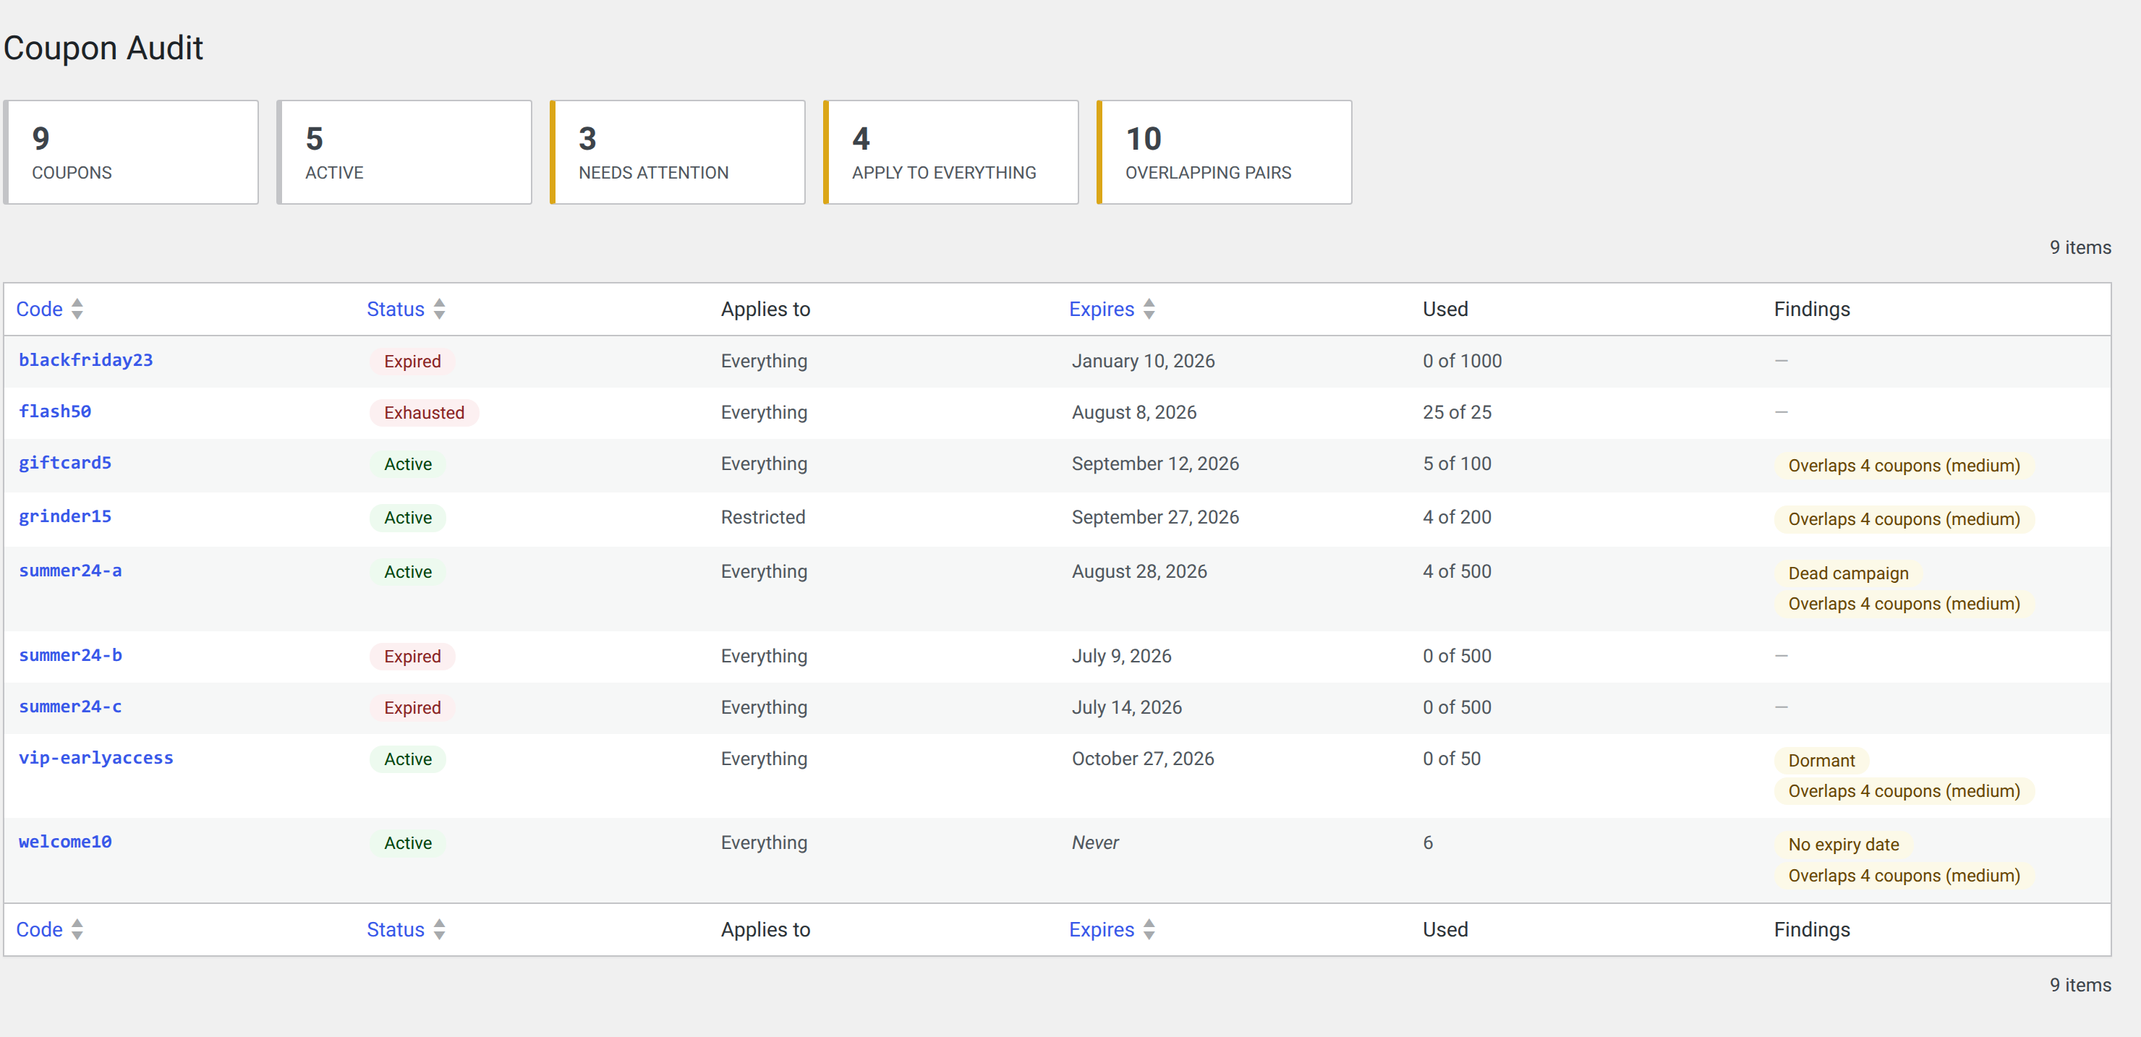
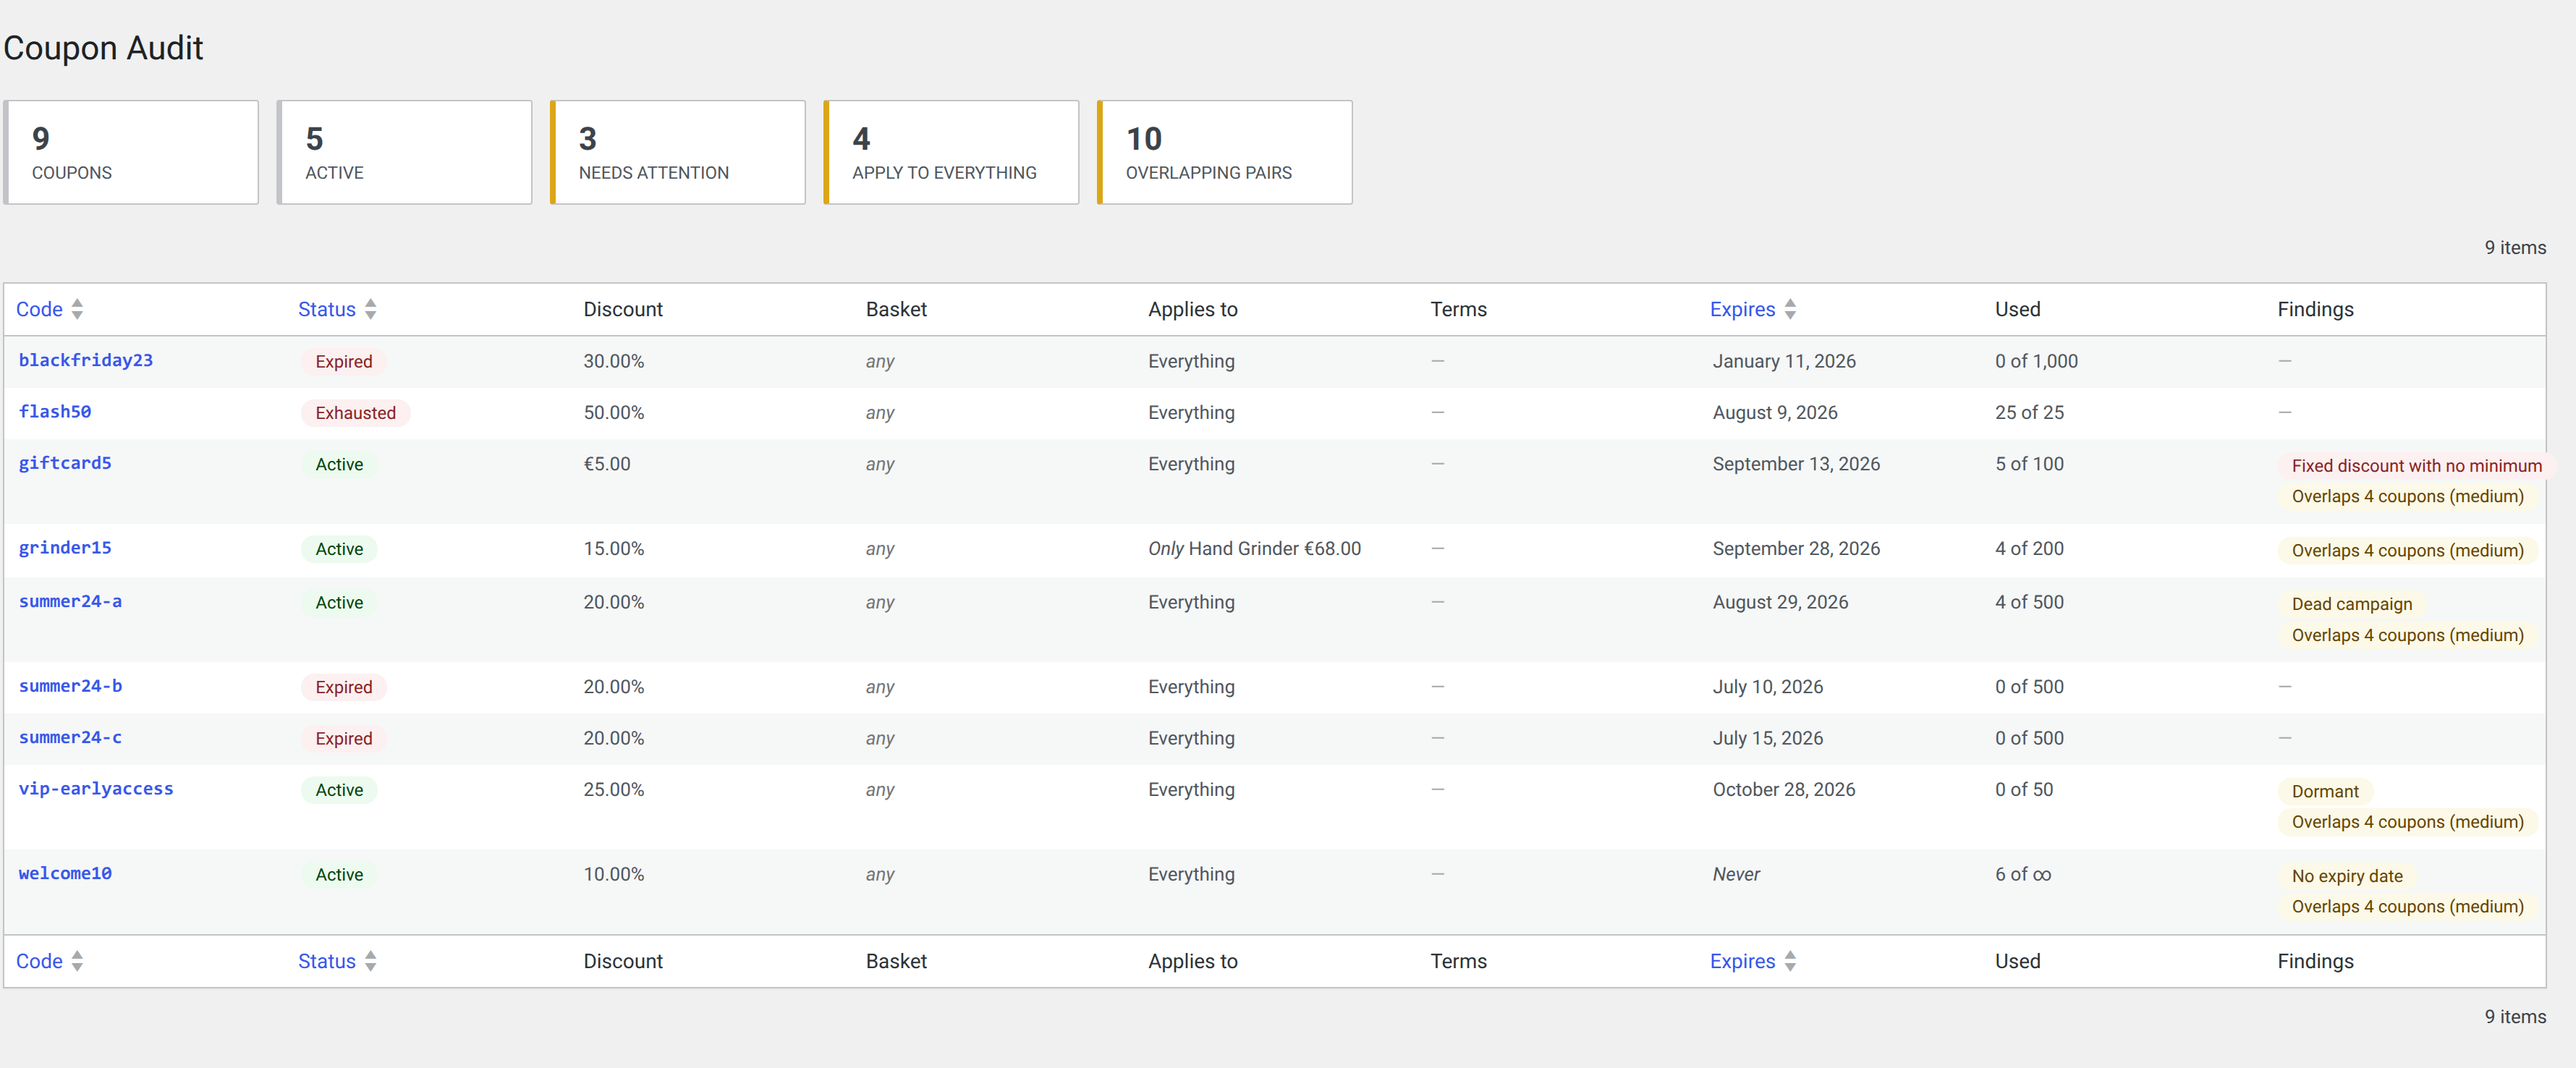
Read an absent spend limit as absent, not as zero
Regenerating the screenshots put the bug on screen: every coupon's Basket
column read "€0.00 to €0.00", which parses as a basket that must total
exactly nothing.

WooCommerce stores an unset minimum or maximum spend as an empty string
but hands it back from get_minimum_amount() as the string "0", so guarding
against emptiness alone is not enough — and it is not enough in a way that
is easy to miss, because the meta really is empty when you go and look at
it. Zero is not a limit on its own terms either: no basket totals less
than nothing, so a minimum of zero admits everything, and a maximum of
zero would admit no basket at all.

The second symptom is worse than the cosmetic one. A fixed discount with
no minimum spend is a finding (§8), and it could never fire, because every
coupon appeared to have a minimum of €0. One of the plugin's rules was
silently switched off for every shop. The regenerated screenshot now shows
it against giftcard5, where it belongs.

Nothing asserted what the repository produces from a real coupon's spend
limits — the formatter's tests supply their own nulls, so they passed
while the mapping was wrong. Three integration tests now cover it: no
limits, a minimum alone, and a range.

Also, on the tooling that found it:

shoot3.js read a coupon ID from a file that nothing wrote, so the step
existed only in whoever had done it last. It finds the coupon by code now.
The audit screen is captured wider than the others, because Findings is
[…]

diff --git a/bin/screenshots/shoot3.js b/bin/screenshots/shoot3.js
@@ -1,8 +1,14 @@
 const puppeteer = require('puppeteer-core');
-const fs = require('fs');
 
 const BASE = 'http://127.0.0.1:8088';
 const OUT  = process.argv[2];
+
+// The coupon the warnings are shown against: unrestricted, no expiry and no
+// usage limit, so it carries three of them at once. Found by its code rather
+// than by an ID passed in from outside — the ID changes every time the demo shop
+// is rebuilt, and a script that needs one handed to it is a script that does not
+// run on its own.
+const CODE = 'welcome10';
 
 (async () => {
   const browser = await puppeteer.launch({
@@ -19,8 +25,19 @@ const OUT  = process.argv[2];
   await page.type('#user_pass', 'demo');
   await Promise.all([ page.click('#wp-submit'), page.waitForNavigation({ waitUntil: 'networkidle2' }) ]);
 
-  const couponId = fs.readFileSync(`${OUT}/../coupon-id.txt`, 'utf8').trim();
-  await page.goto(`${BASE}/wp-admin/post.php?post=${couponId}&action=edit`, { waitUntil: 'networkidle2' });
+  await page.goto(`${BASE}/wp-admin/edit.php?post_type=shop_coupon`, { waitUntil: 'networkidle2' });
+
+  const editUrl = await page.evaluate((code) => {
+    const link = [...document.querySelectorAll('a.row-title')].find((a) => a.textContent.trim() === code);
+
+    return link ? link.href : null;
+  }, CODE);
+
+  if (!editUrl) {
+    throw new Error(`No coupon called ${CODE} in this shop — has the seed run?`);
+  }
+
+  await page.goto(editUrl, { waitUntil: 'networkidle2' });
 
   await page.addStyleTag({ content: `
     #wpadminbar { display: none !important; }

diff --git a/bin/screenshots/shoot.js b/bin/screenshots/shoot.js
@@ -8,8 +8,11 @@ const OUT  = process.argv[2];
 // crisp on the plugin directory's retina rendering.
 const VIEWPORT = { width: 1500, height: 900, deviceScaleFactor: 2 };
 
+// The audit table is wider than the rest: eight columns, and Findings is the
+// last of them. At the default width its labels are clipped at the right edge,
+// which is the one column a reader is looking for.
 const SHOTS = [
-  { file: 'screenshot-1.png', url: '/wp-admin/admin.php?page=dfxcaaw-inventory', wait: '.dfxcaaw-summary' },
+  { file: 'screenshot-1.png', url: '/wp-admin/admin.php?page=dfxcaaw-inventory', wait: '.dfxcaaw-summary', width: 1800 },
   { file: 'screenshot-2.png', url: '/wp-admin/admin.php?page=dfxcaaw-margins',   wait: '.dfxcaaw-margins table' },
   { file: 'screenshot-4.png', url: '/wp-admin/admin.php?page=dfxcaaw-settings',  wait: '.dfxcaaw-settings form' },
 ];
@@ -44,6 +47,7 @@ const SHOTS = [
   `;
 
   for (const shot of SHOTS) {
+    await page.setViewport({ ...VIEWPORT, width: shot.width || VIEWPORT.width });
     await page.goto(`${BASE}${shot.url}`, { waitUntil: 'networkidle2' });
     await page.addStyleTag({ content: hideChrome });
     try { await page.waitForSelector(shot.wait, { timeout: 5000 }); } catch (e) { console.log(`  (selector ${shot.wait} not found)`); }

diff --git a/tests/Integration/Repository/WpCouponRepositoryTest.php b/tests/Integration/Repository/WpCouponRepositoryTest.php
@@ -392,6 +392,59 @@ final class WpCouponRepositoryTest extends WP_UnitTestCase {
 	}
 
 	/**
+	 * A coupon with no spend limits reports none.
+	 *
+	 * WooCommerce stores an unset limit as an empty string but hands it back as
+	 * the string "0", so a mapping that only guards against emptiness produces a
+	 * limit of nothing-at-all. It reads on screen as "€0.00 to €0.00" — a basket
+	 * that must total exactly zero — against almost every coupon in a shop.
+	 */
+	public function test_a_coupon_without_spend_limits_reports_none(): void {
+		$id = $this->create_coupon( array( 'code' => 'nolimits' ) );
+
+		$coupon = $this->repository->find( new CouponId( $id ) );
+
+		$this->assertNotNull( $coupon );
+		$this->assertNull( $coupon->terms->minimum_spend, 'A minimum of zero is no minimum: no basket totals less.' );
+		$this->assertNull( $coupon->terms->maximum_spend, 'A maximum of zero would admit no basket at all.' );
+	}
+
+	/**
+	 * A real minimum survives the mapping.
+	 */
+	public function test_a_minimum_spend_is_mapped(): void {
+		$id = $this->create_coupon( array( 'code' => 'minspend' ) );
+
+		$coupon = new WC_Coupon( $id );
+		$coupon->set_minimum_amount( '25.50' );
+		$coupon->save();
+
+		$mapped = $this->repository->find( new CouponId( $id ) );
+
+		$this->assertNotNull( $mapped );
+		$this->assertSame( 2550, $mapped->terms->minimum_spend?->amount );
+		$this->assertNull( $mapped->terms->maximum_spend );
+	}
+
+	/**
+	 * And so does a range.
+	 */
+	public function test_both_spend_limits_are_mapped(): void {
+		$id = $this->create_coupon( array( 'code' => 'spendrange' ) );
+
+		$coupon = new WC_Coupon( $id );
+		$coupon->set_minimum_amount( '10' );
+		$coupon->set_maximum_amount( '200' );
+		$coupon->save();
+
+		$mapped = $this->repository->find( new CouponId( $id ) );
+
+		$this->assertNotNull( $mapped );
+		$this->assertSame( 1000, $mapped->terms->minimum_spend?->amount );
+		$this->assertSame( 20000, $mapped->terms->maximum_spend?->amount );
+	}
+
+	/**
 	 * Create a coupon through WooCommerce's own API, so the stored shape is
 	 * whatever WooCommerce actually writes rather than what we assume.
 	 *

diff --git a/src/Repository/WpCouponRepository.php b/src/Repository/WpCouponRepository.php
@@ -355,7 +355,21 @@ final class WpCouponRepository implements CouponRepositoryInterface {
 			return null;
 		}
 
-		return Money::from_decimal( (float) $amount, $this->currency(), $this->decimals );
+		$money = Money::from_decimal( (float) $amount, $this->currency(), $this->decimals );
+
+		/*
+		 * Zero means unset. WooCommerce stores an absent spend limit as an empty
+		 * string but hands it back as "0", so guarding against emptiness alone is
+		 * not enough — and it is not enough in a way that is easy to miss, because
+		 * the meta really is empty when you look at it.
+		 *
+		 * Reading zero as a limit is also wrong on its own terms: no basket totals
+		 * less than nothing, so a minimum of zero admits everything, and a maximum
+		 * of zero would admit nothing at all. Either way it is not a limit, and
+		 * rendering it as one puts "€0.00 to €0.00" against almost every coupon in
+		 * a shop.
+		 */
+		return $money->is_zero() ? null : $money;
 	}
 
 	/**

diff --git a/bin/screenshots/seed2.php b/bin/screenshots/seed2.php
@@ -35,7 +35,7 @@ for ( $i = 1; $i <= 5; $i++ ) {
 	\Automattic\WooCommerce\Admin\API\Reports\Coupons\DataStore::sync_order_coupons( $order->get_id() );
 }
 
-$aggregation = \DFX\CouponAAW\Plugin::get_instance()->container()->get( \DFX\CouponAAW\Service\AggregationService::class );
+$aggregation = \DFX\CouponAAW\Plugin::get_instance()->container()->get( \DFX\CouponAAW\Service\AggregationInterface::class );
 for ( $d = 0; $d <= 10; $d++ ) {
 	$aggregation->aggregate_day( $now->modify( "-{$d} days" )->setTime( 0, 0 ) );
 }

diff --git a/bin/screenshots/seed.php b/bin/screenshots/seed.php
@@ -100,7 +100,7 @@ for ( $i = 1; $i <= 4; $i++ ) {
 }
 
 // Aggregate the window the screen shows.
-$aggregation = \DFX\CouponAAW\Plugin::get_instance()->container()->get( \DFX\CouponAAW\Service\AggregationService::class );
+$aggregation = \DFX\CouponAAW\Plugin::get_instance()->container()->get( \DFX\CouponAAW\Service\AggregationInterface::class );
 for ( $d = 0; $d <= 10; $d++ ) {
 	$aggregation->aggregate_day( $now->modify( "-{$d} days" )->setTime( 0, 0 ) );
 }

diff --git a/bin/screenshots/README.md b/bin/screenshots/README.md
@@ -32,16 +32,27 @@ wp eval-file bin/screenshots/seed.php
 wp eval-file bin/screenshots/seed2.php
 wp server --host=127.0.0.1 --port=8088 &
 
-npm install puppeteer-core
+# --no-save keeps a package.json and a lock file out of the repository, which
+# does not otherwise have either.
+npm install --no-save --no-package-lock puppeteer-core
 node bin/screenshots/shoot.js  .wordpress-org   # screens 1, 2 and 4
 node bin/screenshots/shoot3.js .wordpress-org   # the coupon editor
 ```
 
-Two things about the images themselves. They are captured at a 2x device pixel
+`wp-cli` resets its working directory between invocations in some shells, so pass
+`--path=` to the demo install rather than relying on a `cd`.
+
+`shoot3.js` finds its coupon by code, from the coupon list. It used to take an ID
+in a file, which nothing wrote — so the step existed only in whoever had done it
+last. Anything these scripts need, they now find.
+
+Three things about the images themselves. They are captured at a 2x device pixel
 ratio, because the plugin directory renders them on displays that will otherwise
-show blurred text. And the coupon editor is shot with WordPress's own menu
+show blurred text. The coupon editor is shot with WordPress's own menu
 collapsed rather than hidden: hiding it entirely widens the two-column layout
-past the viewport and clips the Publish box off the right edge.
+past the viewport and clips the Publish box off the right edge. And the audit
+screen is shot wider than the others, because Findings is its last column and the
+default width cuts the labels off — the one thing a reader is looking for.
 
 `seed2.php` exists separately because the third cost-coverage state — a coupon
 whose orders carry no cost at all — needs an unrestricted coupon applied to a
